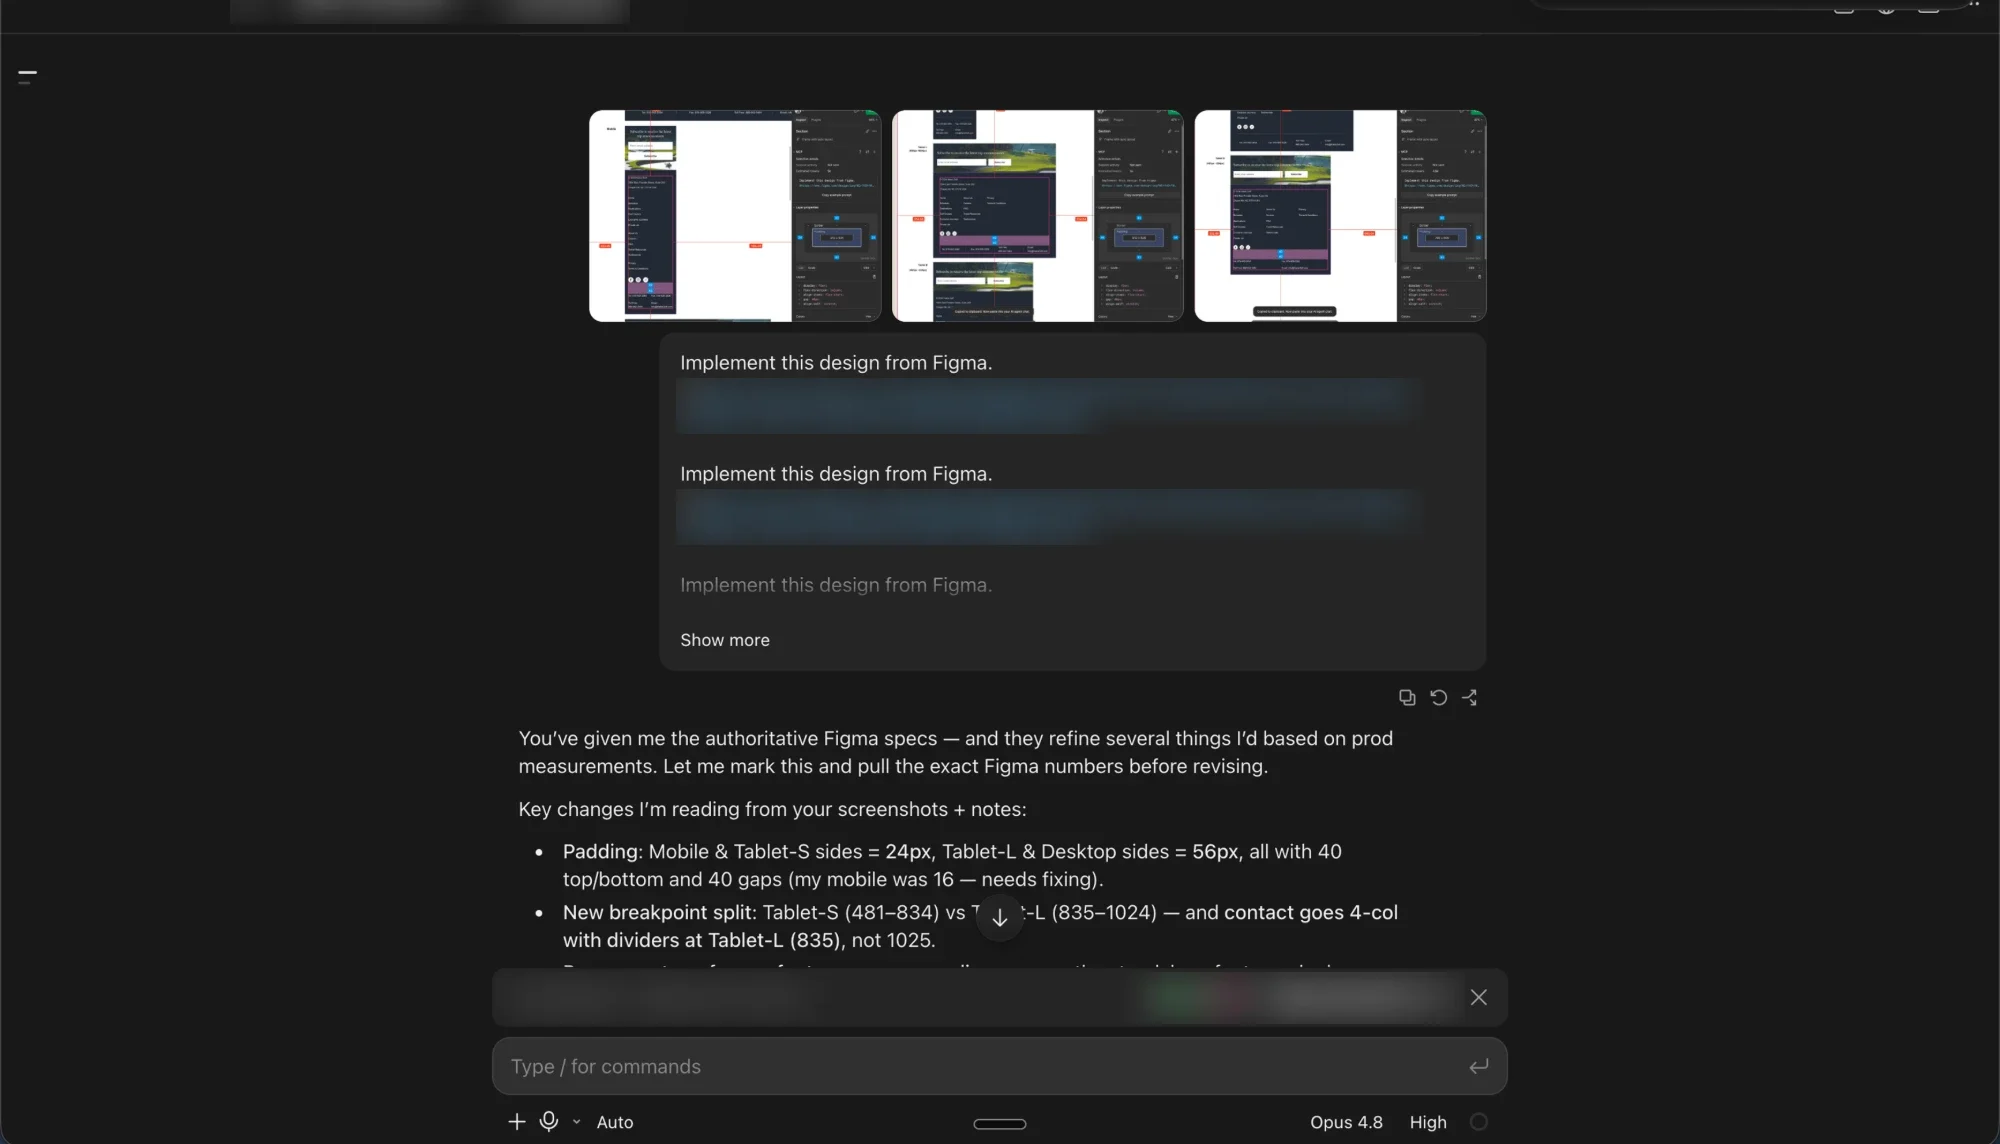
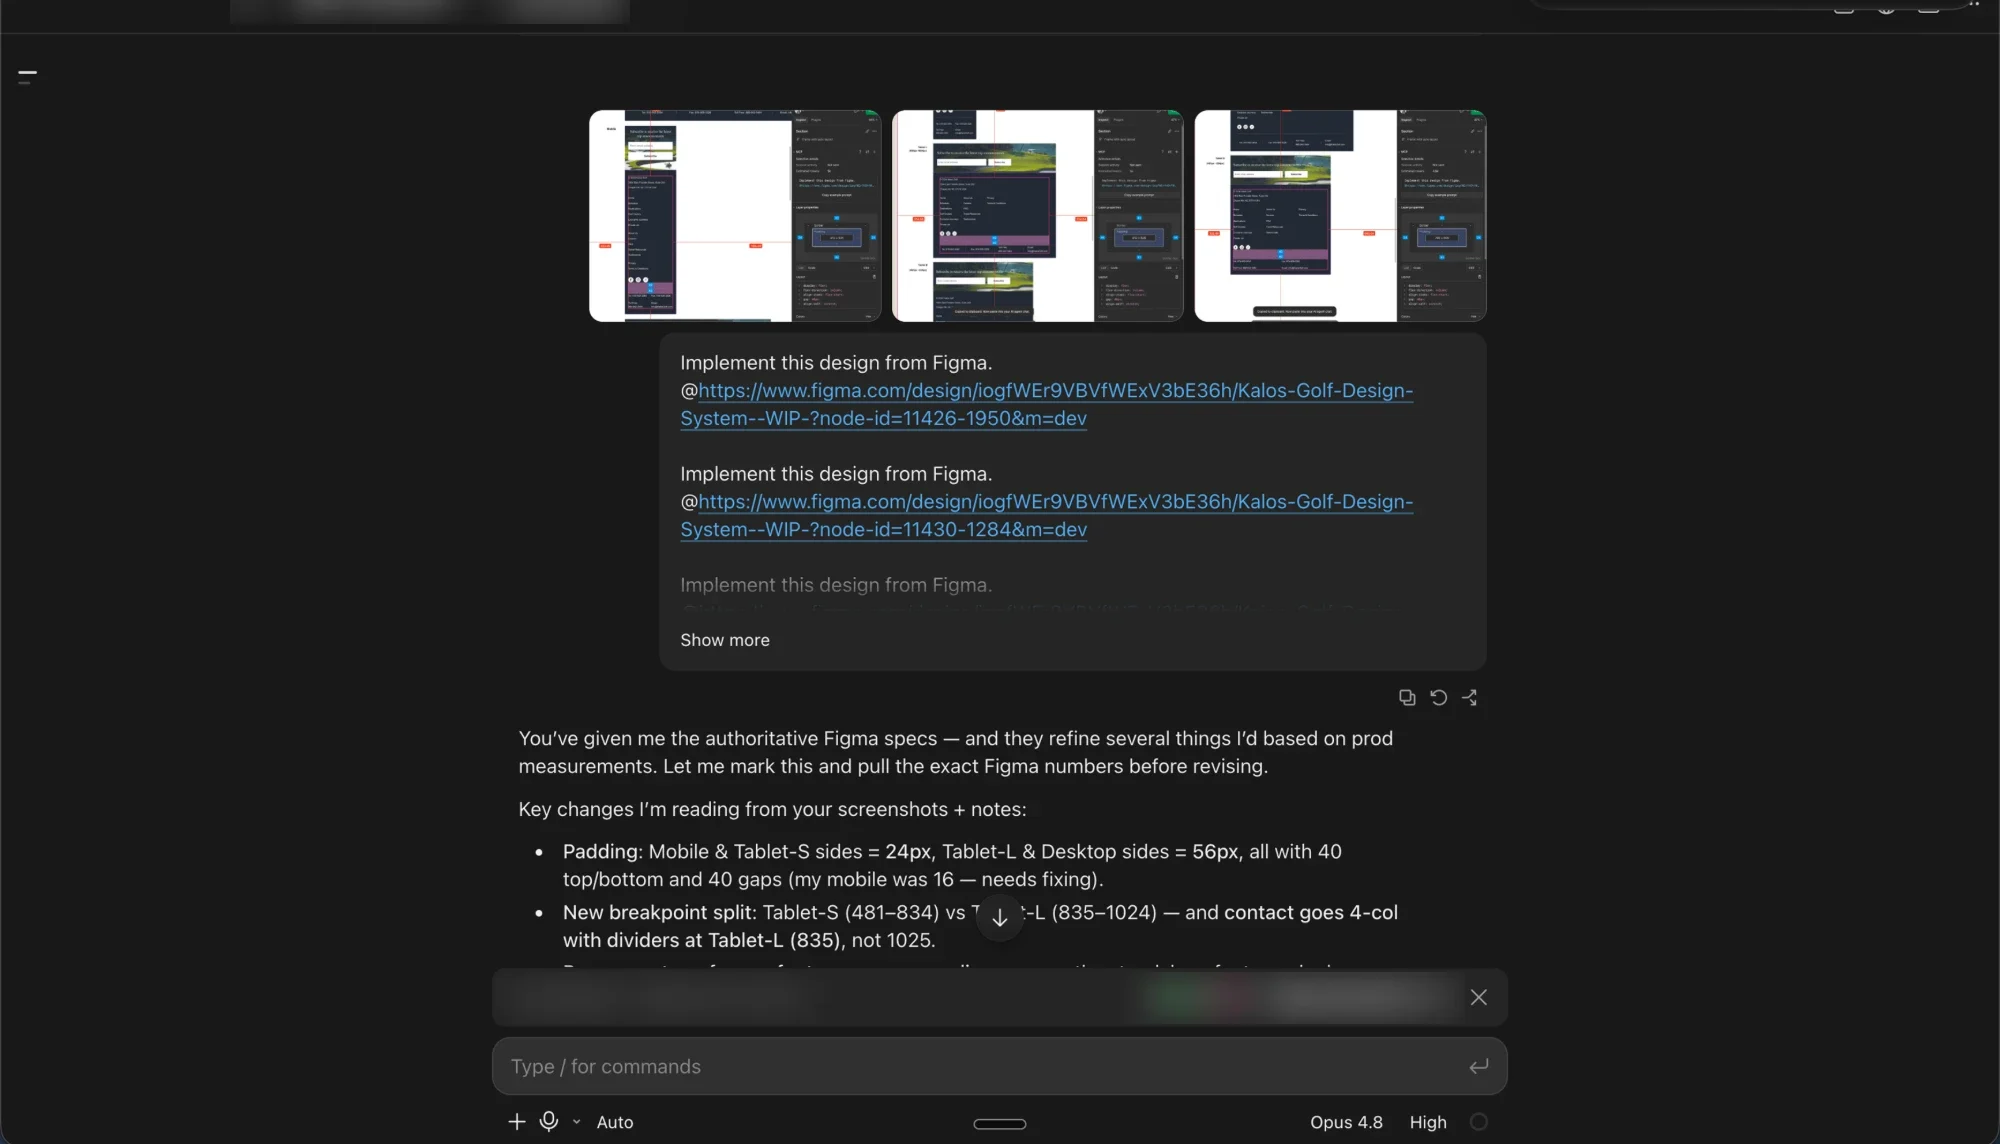
Helix Discovery image: Figma links left readable

Changed region(s): [[0.341, 0.4283, 0.713, 0.4895], [0.341, 0.3365, 0.713, 0.3977]]

diff --git a/src/app/works/helix/page.tsx b/src/app/works/helix/page.tsx
@@ -167,7 +167,7 @@ function Discovery() {
       </Copy>
       <Visual>
         {/* A later Kalos footer session (not the original pre-Helix test, so the caption doesn't
-            say "before Helix"). Figma links, branch bar and session name are blurred. */}
+            say "before Helix"). Branch bar and session name are blurred; the Figma links stay readable. */}
         <Figure
           name="Claude Code reading Kalos Figma frames"
           alt="Claude Code given Kalos Figma frames, then listing the spacing and breakpoints it got wrong and needs to fix"
